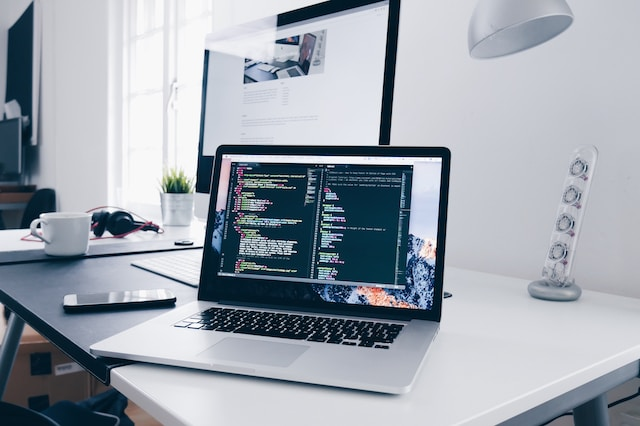
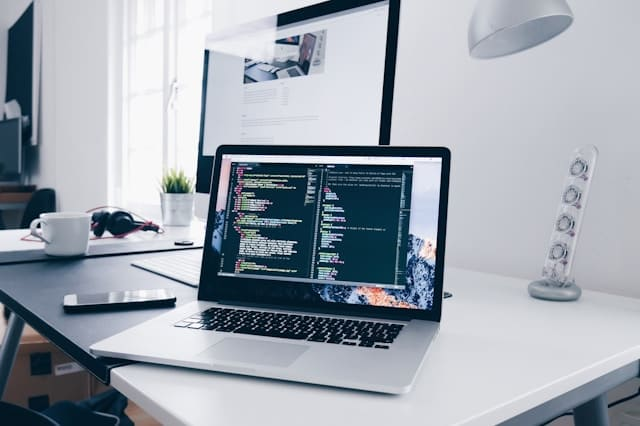
update images

diff --git a/src/components/Hero/Hero/Hero.css b/src/components/Hero/Hero/Hero.css
@@ -17,18 +17,21 @@
   left: 50%;
   transform: translate(-50%, -50%);
   color: #c1d2ec;
- 
+
   width: 100%;
 }
 
-.hero-text h2{
+.hero-text h2 {
   font-size: 2.5rem;
   font-weight: 500;
 }
 @media only screen and (min-width: 1000px) {
   .hero-image {
-    background-image: linear-gradient(rgba(0, 0, 0, 0.664), rgba(0, 0, 0, 0.781)),
-      url("../../../assets/codingfirst.jpg");
+    background-image: linear-gradient(
+        rgba(0, 0, 0, 0.664),
+        rgba(0, 0, 0, 0.781)
+      ),
+      url("../../../assets/coding.jpg");
     height: 70vh;
     width: 70%;
     background-position: center;
@@ -38,9 +41,8 @@
     margin: 0 auto;
   }
 
-  .hero-text h2{
+  .hero-text h2 {
     font-size: 4rem;
-
   }
 
   .hero-text {

diff --git a/src/components/Hero/Hero/Hero.jsx b/src/components/Hero/Hero/Hero.jsx
@@ -1,6 +1,7 @@
 import React from "react";
 import "./Hero.css";
 
+
 function Hero() {
   return (
     <div className="hero">

diff --git a/README.md b/README.md
@@ -4,7 +4,7 @@
 
 ## Overview
 
-A simple blog application built with React.js and Firebase as the backend. to view blog posts.
+A simple blog application built with React.js and Firebase as the backend, to view blog posts.
 
 ## Table of Contents
 
